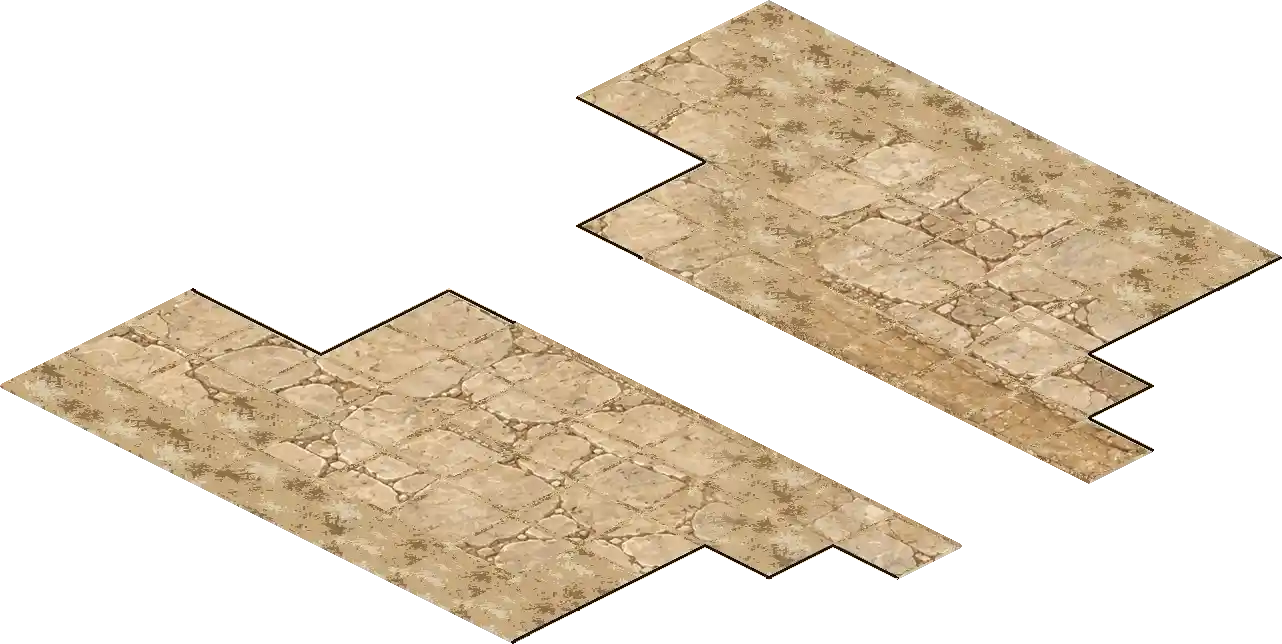
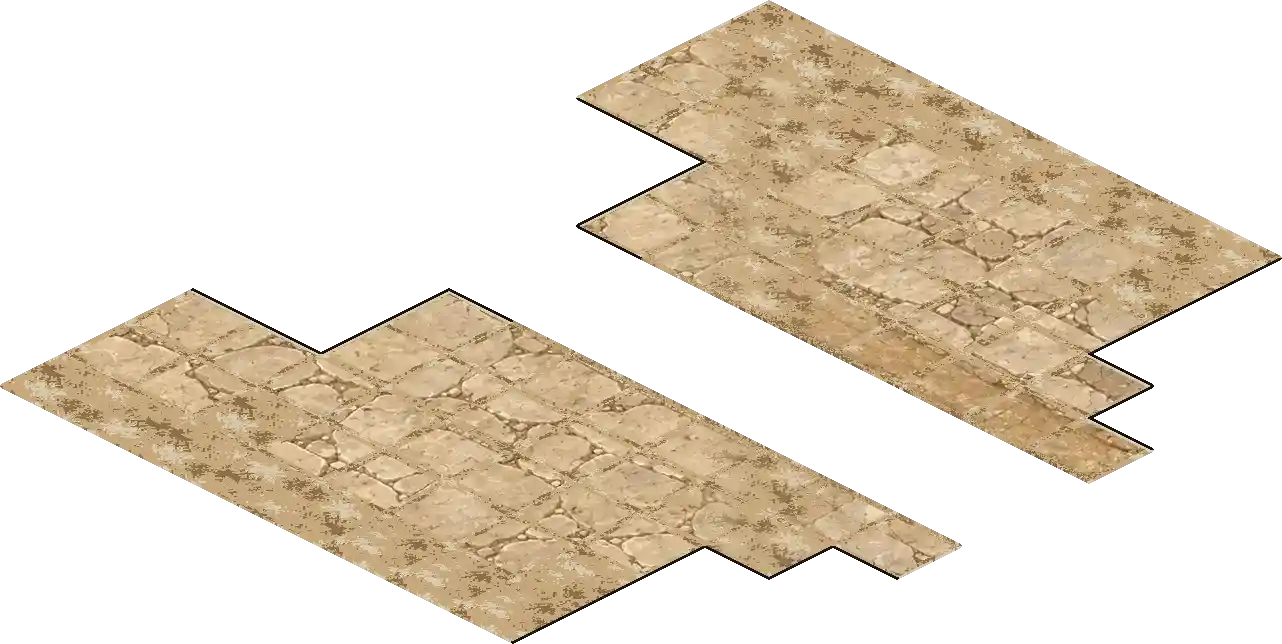
Quarry art: re-encode the Gate floor pages so the edge ink stays dark (review)

diff --git a/scripts/art/quarry-route-ground.test.ts b/scripts/art/quarry-route-ground.test.ts
@@ -441,10 +441,10 @@ it("tells the Cutting's ledge tops from its rock tops", () => {
  */
 const SHIPPED_FLOOR_FILL: Record<string, string> = {
   'quarry-gate-scene/earth-west':
[2 lines of base64/hex data omitted]
   'quarry-gate-scene/earth-east':
[7 lines of base64/hex data omitted]
@@ -555,21 +555,16 @@ function footprintViolations(
  *
  * Measured with the packer's plate re-encoded at q34 with `exact=1` and decoded
  * (the noise a faithful page carries): max window error 19.0 on every page.
- * The shipped pages measure 18.3 to 22.4, except the Gate's earth-west and
- * earth-east (below). The bound is 26. A 100 px repaint of an ink line or a face
- * sliver by 70 levels scores about 70 in its window.
+ * The shipped pages measure 18.3 to 22.4. The bound is 26. A 100 px repaint of
+ * an ink line or a face sliver by 70 levels scores about 70 in its window.
  *
- * Known: on the Gate's two earth pages the fill's colour under alpha 0 leaks
- * across the lossy blocks into 1-2 px ink pixels along the plate's outer edge,
- * which come out near-white (253,236,224 for 27,20,16). That is a flaw of the
- * shipped art, not noise, so those windows are pinned by count: it may not grow.
+ * The Gate's earth and road pages are encoded with the packer's colour under
+ * alpha 0, not the fill's: the fill's colour once leaked across the lossy blocks
+ * into the 1-2 px ink pixels of the plate's outer edge and turned them
+ * near-white (253,236,224 for 27,20,16). No window may exceed the bound.
  */
 const WINDOW_PX = 8;
 const WINDOW_MAX_ERROR = 26;
-const KNOWN_EDGE_BLEED_WINDOWS: Record<string, number> = {
-  'quarry-gate-scene/earth-west': 8116,
-  'quarry-gate-scene/earth-east': 7631,
-};
 
 function windowScan(
   map: MapDef,
@@ -632,17 +627,11 @@ function windowScan(
  * line leaves ~8 pixels in a window, diluted by the divisor), so ink is checked
  * on its own: each pixel the packer paints in the ink colour must still come out
  * dark. A re-encode alone leaves the brightest ink pixel at max channel 97 on
- * every page (ink is 27), so the bound is 110; the count over it is pinned per
- * page, 0 except where the Gate's alpha-0 fill leaks (see above).
+ * every page (ink is 27), so the bound is 110, and no pixel may exceed it.
  */
 const INK_MAX_CHANNEL = 110;
-const KNOWN_BRIGHT_INK: Record<string, number> = {
-  'quarry-gate-scene/earth-west': 934,
-  'quarry-gate-scene/earth-east': 1373,
-  'quarry-gate-scene/road': 380,
-};
 
-function inkViolations(key: string, page: { image: Image }, shipped: Image): string[] {
+function inkViolations(page: { image: Image }, shipped: Image): string[] {
   const { data } = page.image;
   let bright = 0;
   for (let i = 0; i < shipped.width * shipped.height; i++) {
@@ -657,25 +646,16 @@ function inkViolations(key: string, page: { image: Image }, shipped: Image): str
     )
       bright++;
   }
-  const allowed = KNOWN_BRIGHT_INK[key] ?? 0;
-  return bright > allowed
-    ? [`${bright} ink pixels brighter than ${INK_MAX_CHANNEL} (${allowed} allowed)`]
-    : [];
+  return bright ? [`${bright} ink pixels brighter than ${INK_MAX_CHANNEL}`] : [];
 }
 
 function windowViolations(
-  key: string,
   map: MapDef,
   page: { image: Image; x: number; y: number },
   shipped: Image,
 ): string[] {
   const { max, over, at } = windowScan(map, page, shipped);
-  const allowed = KNOWN_EDGE_BLEED_WINDOWS[key] ?? 0;
-  return over > allowed
-    ? [
-        `${over} windows over ${WINDOW_MAX_ERROR} (${allowed} allowed); worst ${max.toFixed(1)} at ${at}`,
-      ]
-    : [];
+  return over ? [`${over} windows over ${WINDOW_MAX_ERROR}; worst ${max.toFixed(1)} at ${at}`] : [];
 }
 
 it.each([
@@ -691,14 +671,8 @@ it.each([
       );
       const page = plate(built(), region.name);
       expect(footprintViolations(map, page, shipped), region.name).toEqual([]);
-      expect(
-        windowViolations(`${root}/${region.name}`, map, page, shipped),
-        `${root}/${region.name} windows`,
-      ).toEqual([]);
-      expect(
-        inkViolations(`${root}/${region.name}`, page, shipped),
-        `${root}/${region.name} ink`,
-      ).toEqual([]);
+      expect(windowViolations(map, page, shipped), `${root}/${region.name} windows`).toEqual([]);
+      expect(inkViolations(page, shipped), `${root}/${region.name} ink`).toEqual([]);
     }
   },
 );
@@ -757,9 +731,9 @@ it('ships the plates the packers build, inside the registered page', async () =>
  * budget, so its pins live here rather than as a `bytes` field on each region.
  */
 const QUARRY_GATE_GROUND_BYTES = [
-  { name: 'earth-west', bytes: 42_362 },
-  { name: 'earth-east', bytes: 43_016 },
-  { name: 'road', bytes: 19_502 },
+  { name: 'earth-west', bytes: 40_864 },
+  { name: 'earth-east', bytes: 41_264 },
+  { name: 'road', bytes: 16_010 },
   { name: 'limestone', bytes: 36_966 },
 ] as const;
 

diff --git a/docs/art/quarry-floor-fill.md b/docs/art/quarry-floor-fill.md
@@ -9,7 +9,7 @@ floor-level walkable cell is unchanged.
 
 | Scene                 | Pages replaced                          | Bytes (was)                                                  |
 | --------------------- | --------------------------------------- | ------------------------------------------------------------ |
-| `quarry-gate-scene`   | earth-west, earth-east, road, limestone | 42,362 / 43,016 / 19,502 / 36,966 (144,764 -> 141,846 total) |
+| `quarry-gate-scene`   | earth-west, earth-east, road, limestone | 40,864 / 41,264 / 16,010 / 36,966 (144,764 -> 135,104 total) |
 | `cutting-scene`       | dirt-west, dirt-east, road, stone       | 18,340 / 18,166 / 25,874 / 61,940                            |
 | `driller-floor-scene` | dirt-west, dirt-east, road, stone       | 29,084 / 26,446 / 2,798 / 67,486                             |
 
@@ -73,6 +73,19 @@ plate: alpha identical, and outside the floor masks (every walkable elevation-0
 cell, 4 px inset) each whole cell within lossy-encode tolerance, so a fill that
 paints a raised top, a face or ink fails even if its hash is re-pinned. Measured
 bounds are in the test.
+
+## Gate edge-ink re-encode
+
+The first Gate encode of earth-west, earth-east and road left the fill's colour
+under alpha 0, which bled across the lossy blocks into the 1-2 px ink pixels at
+the plate's outer edge (253,236,224 for 27,20,16: 934 / 1,373 / 380 bright ink
+pixels). The three pages were rebuilt mechanically: the previous shipped page's
+RGB inside the floor masks (floor-level walkable cell, 4 px inset), the packer's
+plate everywhere else, including the packer's RGB under alpha 0 and the whole
+rim and ink ring, then re-encoded at quality 34 with `exact=1`. Bright ink is
+now 0 and no 8 x 8 window exceeds the bound on any page; the pins in the test
+carry no known-bleed allowance. Bytes: 42,362 -> 40,864, 43,016 -> 41,264,
+19,502 -> 16,010. Limestone is unchanged.
 
 ## Known remaining
 
